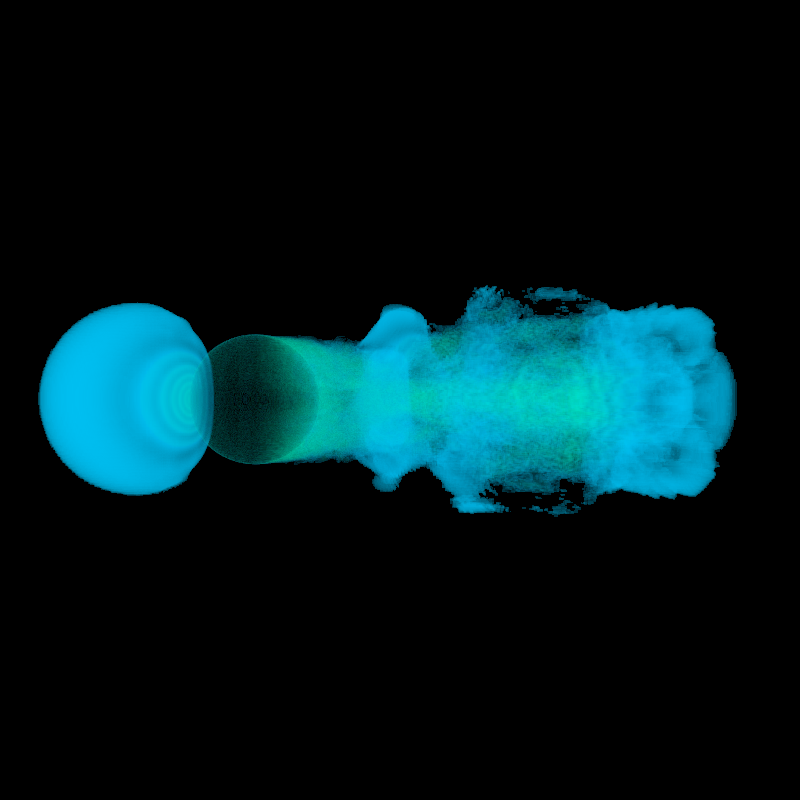
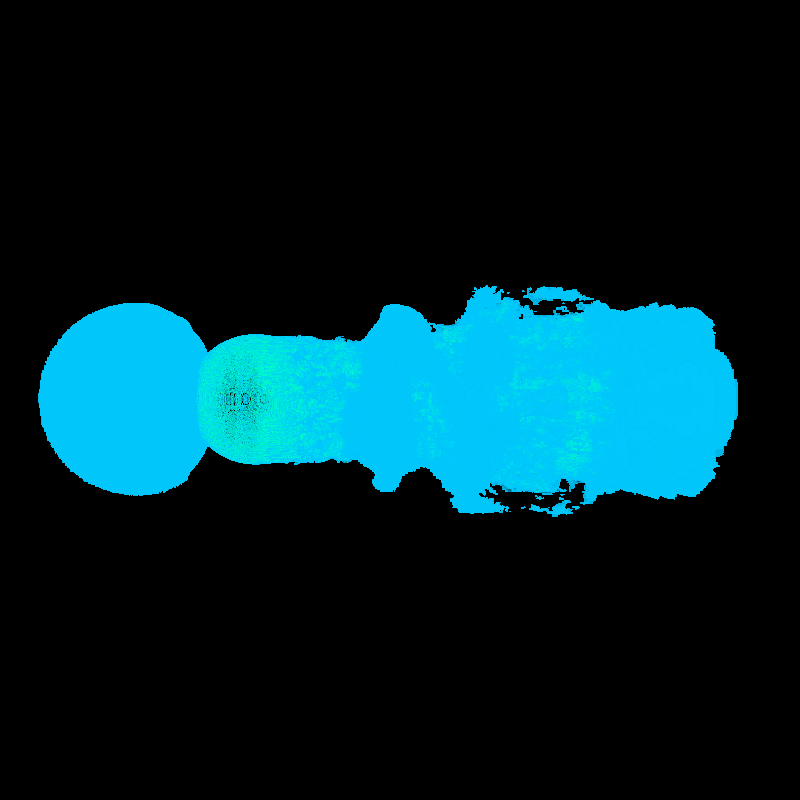
adaptive sampling, opacity correction

Changed region(s): [[0.0312, 0.3438, 0.9375, 0.6562]]

diff --git a/src/integrator.cpp b/src/integrator.cpp
@@ -9,9 +9,9 @@
 
 Integrator::Integrator(std::shared_ptr<Camera> cam,
                        std::shared_ptr<Scene> scene, int spp, Grids_data &gridsData, float iso_value,
-                       float var)
+                       float var, float step_scale)
         : camera(std::move(cam)), scene(std::move(scene)), spp(spp), gridsData(gridsData), variance(var), iso_value(iso_value),
-          kdtree(gridsData) {}
+          kdtree(gridsData), step_scale(step_scale) {}
 
 void Integrator::render() const {
     auto grid = gridsData.grids[0];
@@ -59,11 +59,11 @@ float Integrator::opacity_transfer(float value) const {
     return 0;
 }
 
-float Integrator::opacity_correction(float step, float opacity) {
-    return 1 - pow((1 - opacity), step);
+float Integrator::opacity_correction(float actual_step, float step_base, float opacity) {
+    return 1 - pow((1 - opacity), actual_step/step_base);
 }
 
-Vec3f Integrator::color_transfer(float val) const {
+Vec3f Integrator::color_transfer(float val) {
     int b = (int)round(val * 100);
     return{0.0, (36 - b*b) * 0.4f / 36.0f + 0.6f, b * b * 0.4f / 36.0f + 0.6f};
 //    return {0,0.8, 1.0};
@@ -79,7 +79,7 @@ Vec3f Integrator::color_transfer(float val) const {
 //}
 
 inline float AMR_basis(float dx, const FloatGrid & grid, const Vec3f &pos) {
-    const Vec3i inIdx = openvdb::tools::local_util::floorVec3(grid.worldToIndex(pos));
+    const Vec3i inIdx = floorVec3(grid.worldToIndex(pos));
     const Vec3f cell_pos = grid.indexToWorld(inIdx);
 //    auto ijk = Coord(inIdx);
     const auto& inTree = grid.tree();
@@ -195,7 +195,7 @@ float Integrator::interpolation(Vec3f pos, uint32_t grid_idx_bm) const {
 
 }
 
-float Integrator::sample_step(Vec3f pos, uint32_t grid_idx_bm) const{
+float Integrator::step_Base(Vec3f pos, uint32_t grid_idx_bm) const{
     float step=std::numeric_limits<float>::max();
 //    for(auto i:grid_idx){
     for (int i = 0; grid_idx_bm; i++, grid_idx_bm >>= 1) {
@@ -209,8 +209,9 @@ float Integrator::sample_step(Vec3f pos, uint32_t grid_idx_bm) const{
 Vec3f interleaved_sampling(Vec3f dt, Vec3f t0){
     Sampler sampler;
     auto rho=sampler.get1D();
-    dt*(rho+ceil((t0+rho*dt)/dt));
+    return dt*(Vec3f(rho)+ceilVec3((t0+rho*dt)/dt));
 }
+
 
 Vec3f Integrator::front_to_back(Ray &ray) const {
     auto grid = gridsData.grids[0];
@@ -222,29 +223,33 @@ Vec3f Integrator::front_to_back(Ray &ray) const {
     std::array<float, 2> t_range{};
     if(!ray_bbox_range(ray,gridsData.whole_wbbox,t_range))
         return result;
-    auto limit=t_range[1]-t_range[0]-2*EPS;
+    auto limit=t_range[1]-t_range[0];
     ray.origin=ray(t_range[0]+EPS);
+    auto contribute_grids_bm=kdtree.grid_contribute(ray.origin);
+    float step_base= step_Base(ray.origin,contribute_grids_bm);
+    auto actual_step=step_base*step_scale;
+    ray.origin=interleaved_sampling(actual_step*ray.direction,ray.origin)-EPS;
+
 
     while (T>0.05 && limit > 0) {
-//        if (!(gridsData.whole_wbbox.isInside(temp_pos)))
-//            continue;
-        auto contribute_grids_bm=kdtree.grid_contribute(ray.origin);
-//        float step= sample_step(ray.origin,contribute_grids);
-//        auto temp_val = interpolation(ray.origin,contribute_grids);
-        float step= sample_step(ray.origin,contribute_grids_bm);
-        auto temp_val = interpolation(ray.origin,contribute_grids_bm);
-//        if (temp_val > 1.0f) cout << temp_val << endl;
-//        sample(grid->tree(), grid->worldToIndex(temp_pos), temp_val);
-        auto opacity = opacity_correction(step, opacity_transfer(temp_val));
+        auto next_pos=ray(actual_step);
+        auto sample_pos=(ray.origin+next_pos)/2;
+
+        auto temp_val = interpolation(sample_pos,contribute_grids_bm);
+        auto opacity = opacity_correction(actual_step,step_base , opacity_transfer(temp_val));
 
         result += T * opacity * color_transfer(temp_val);
         T *= (1.0f - opacity);
-        ray.origin=ray(step);
-        limit -= step;
+
+        ray.origin=next_pos;
+        limit -= actual_step;
+
+        contribute_grids_bm=kdtree.grid_contribute(ray.origin);
+        step_base= step_Base(ray.origin, contribute_grids_bm);
+        actual_step=step_base*step_scale;
 //        cout<<result<<endl;
     }
-//    cout<<cnt<<endl;
-//    cout<<T<<" "<<limit<<endl;
+
     return result;
 }
 

diff --git a/include/integrator.h b/include/integrator.h
@@ -9,21 +9,21 @@
 class Integrator {
 public:
     Integrator(std::shared_ptr<Camera> cam,
-               std::shared_ptr<Scene> scene, int spp,Grids_data &gridsData,  float iso_value, float var=sqrt(0.0000001));
+               std::shared_ptr<Scene> scene, int spp,Grids_data &gridsData,  float iso_value, float var=0.001, float step_scale=1);
 
     void render() const;
 
     [[nodiscard]] float opacity_transfer(float value) const;
 
-    [[nodiscard]] Vec3f color_transfer(float val) const;
+    [[nodiscard]] static Vec3f color_transfer(float val) ;
 
     [[nodiscard]] float interpolation(Vec3f pos, uint32_t grid_idx_bm) const;
 
-    static float opacity_correction(float step, float opacity);
+    static float opacity_correction(float actual_step, float step_base, float opacity);
 
     Vec3f front_to_back(Ray &ray) const;
 
-    [[nodiscard]] float sample_step(Vec3f pos, uint32_t grid_idx_bm) const;
+    [[nodiscard]] float step_Base(Vec3f pos, uint32_t grid_idx_bm) const;
 
 private:
     std::shared_ptr<Camera> camera;
@@ -35,7 +35,7 @@ private:
     Kdtree kdtree;
     float variance;
     float iso_value;
-//    bool isNearvalueon(Vec3f pos) const;
+    float step_scale;
 };
 
 #endif //INTEGRATOR_H_

diff --git a/src/main.cpp b/src/main.cpp
@@ -66,7 +66,7 @@ int main(int argc, char *argv[]) {
 //    auto length=(loader.grids.whole_wbbox.max() - loader.grids.whole_wbbox.min())[loader.grids.whole_wbbox.maxExtent()];
 //    auto dim=single_grid->evalActiveVoxelBoundingBox().dim();
     std::unique_ptr<Integrator> integrator
-            = std::make_unique<Integrator>(camera, scene, config.spp, loader.grids,config.iso_value,config.var);
+            = std::make_unique<Integrator>(camera, scene, config.spp, loader.grids,config.iso_value,config.var,config.step_scale);
     std::cout << "Start Rendering..." << std::endl;
     auto start = std::chrono::steady_clock::now();
     // render scene

diff --git a/include/config_io.h b/include/config_io.h
@@ -17,7 +17,8 @@ NLOHMANN_DEFINE_TYPE_NON_INTRUSIVE(Config,
                                    cam_config,
                                    file_path,
                                    iso_value,
-                                   var
+                                   var,
+                                   step_scale
                                    );
 
 #endif // CONFIG_IO_H_

diff --git a/include/common.h b/include/common.h
@@ -35,6 +35,7 @@ using Mat3f=openvdb::Mat3s;
 using Coord=openvdb::Coord;
 using iBBox=openvdb::CoordBBox;
 using wBBox=openvdb::BBoxd;
+using namespace openvdb::tools::local_util;
 using Vec3sGrid=openvdb::v10_0::Vec3SGrid;
 using FloatGrid=openvdb::v10_0::FloatGrid;
 

diff --git a/include/config.h b/include/config.h
@@ -20,6 +20,7 @@ struct Config {
   std::string file_path;
   float iso_value;
   float var;
+  float step_scale;
 };
 
 #endif // CONFIG_H
